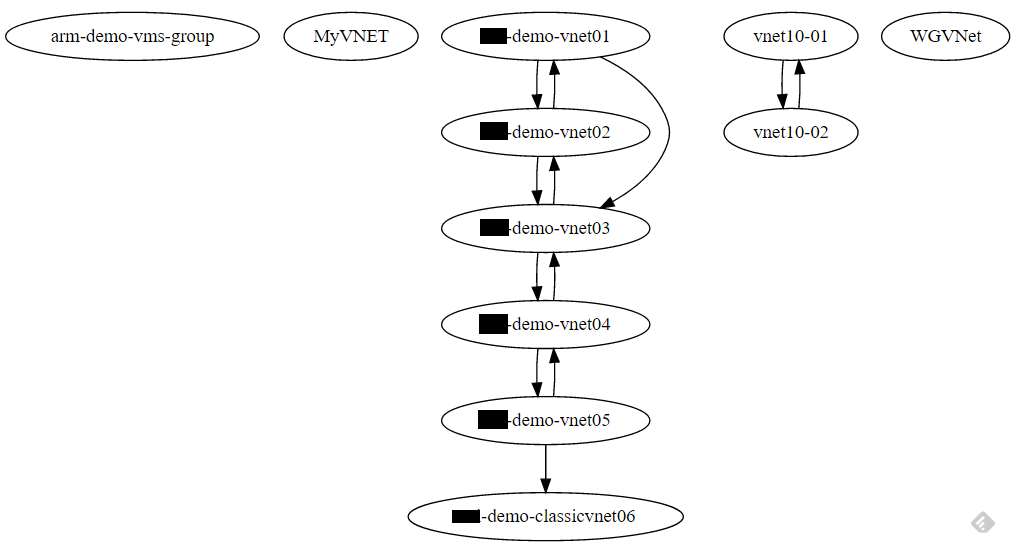
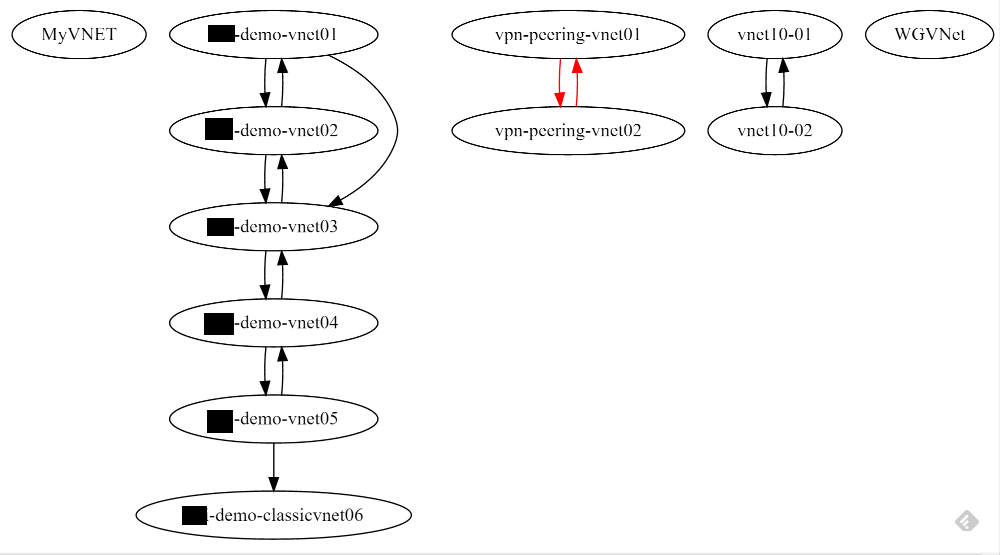
add vpn peering

diff --git a/README.md b/README.md
@@ -1,5 +1,5 @@
-# VNET peering visualization with GraphViz
-This powershell script output graphviz data of your VNET peerings. You can visualize VNET peerings in your subscriptions with Graphviz like below.
+# VNET and VPN peering visualization with GraphViz
+This powershell script output graphviz data of your VNET peerings and VPN peering. You can visualize VNET peerings in your subscriptions with Graphviz like below.
 ![VNet Peering visualization](https://raw.githubusercontent.com/normalian/Azure-VNET-Peering-Visualization/master/VNetPeerVisualize.png "VNet Peering visualization")
 
 ## Reference
